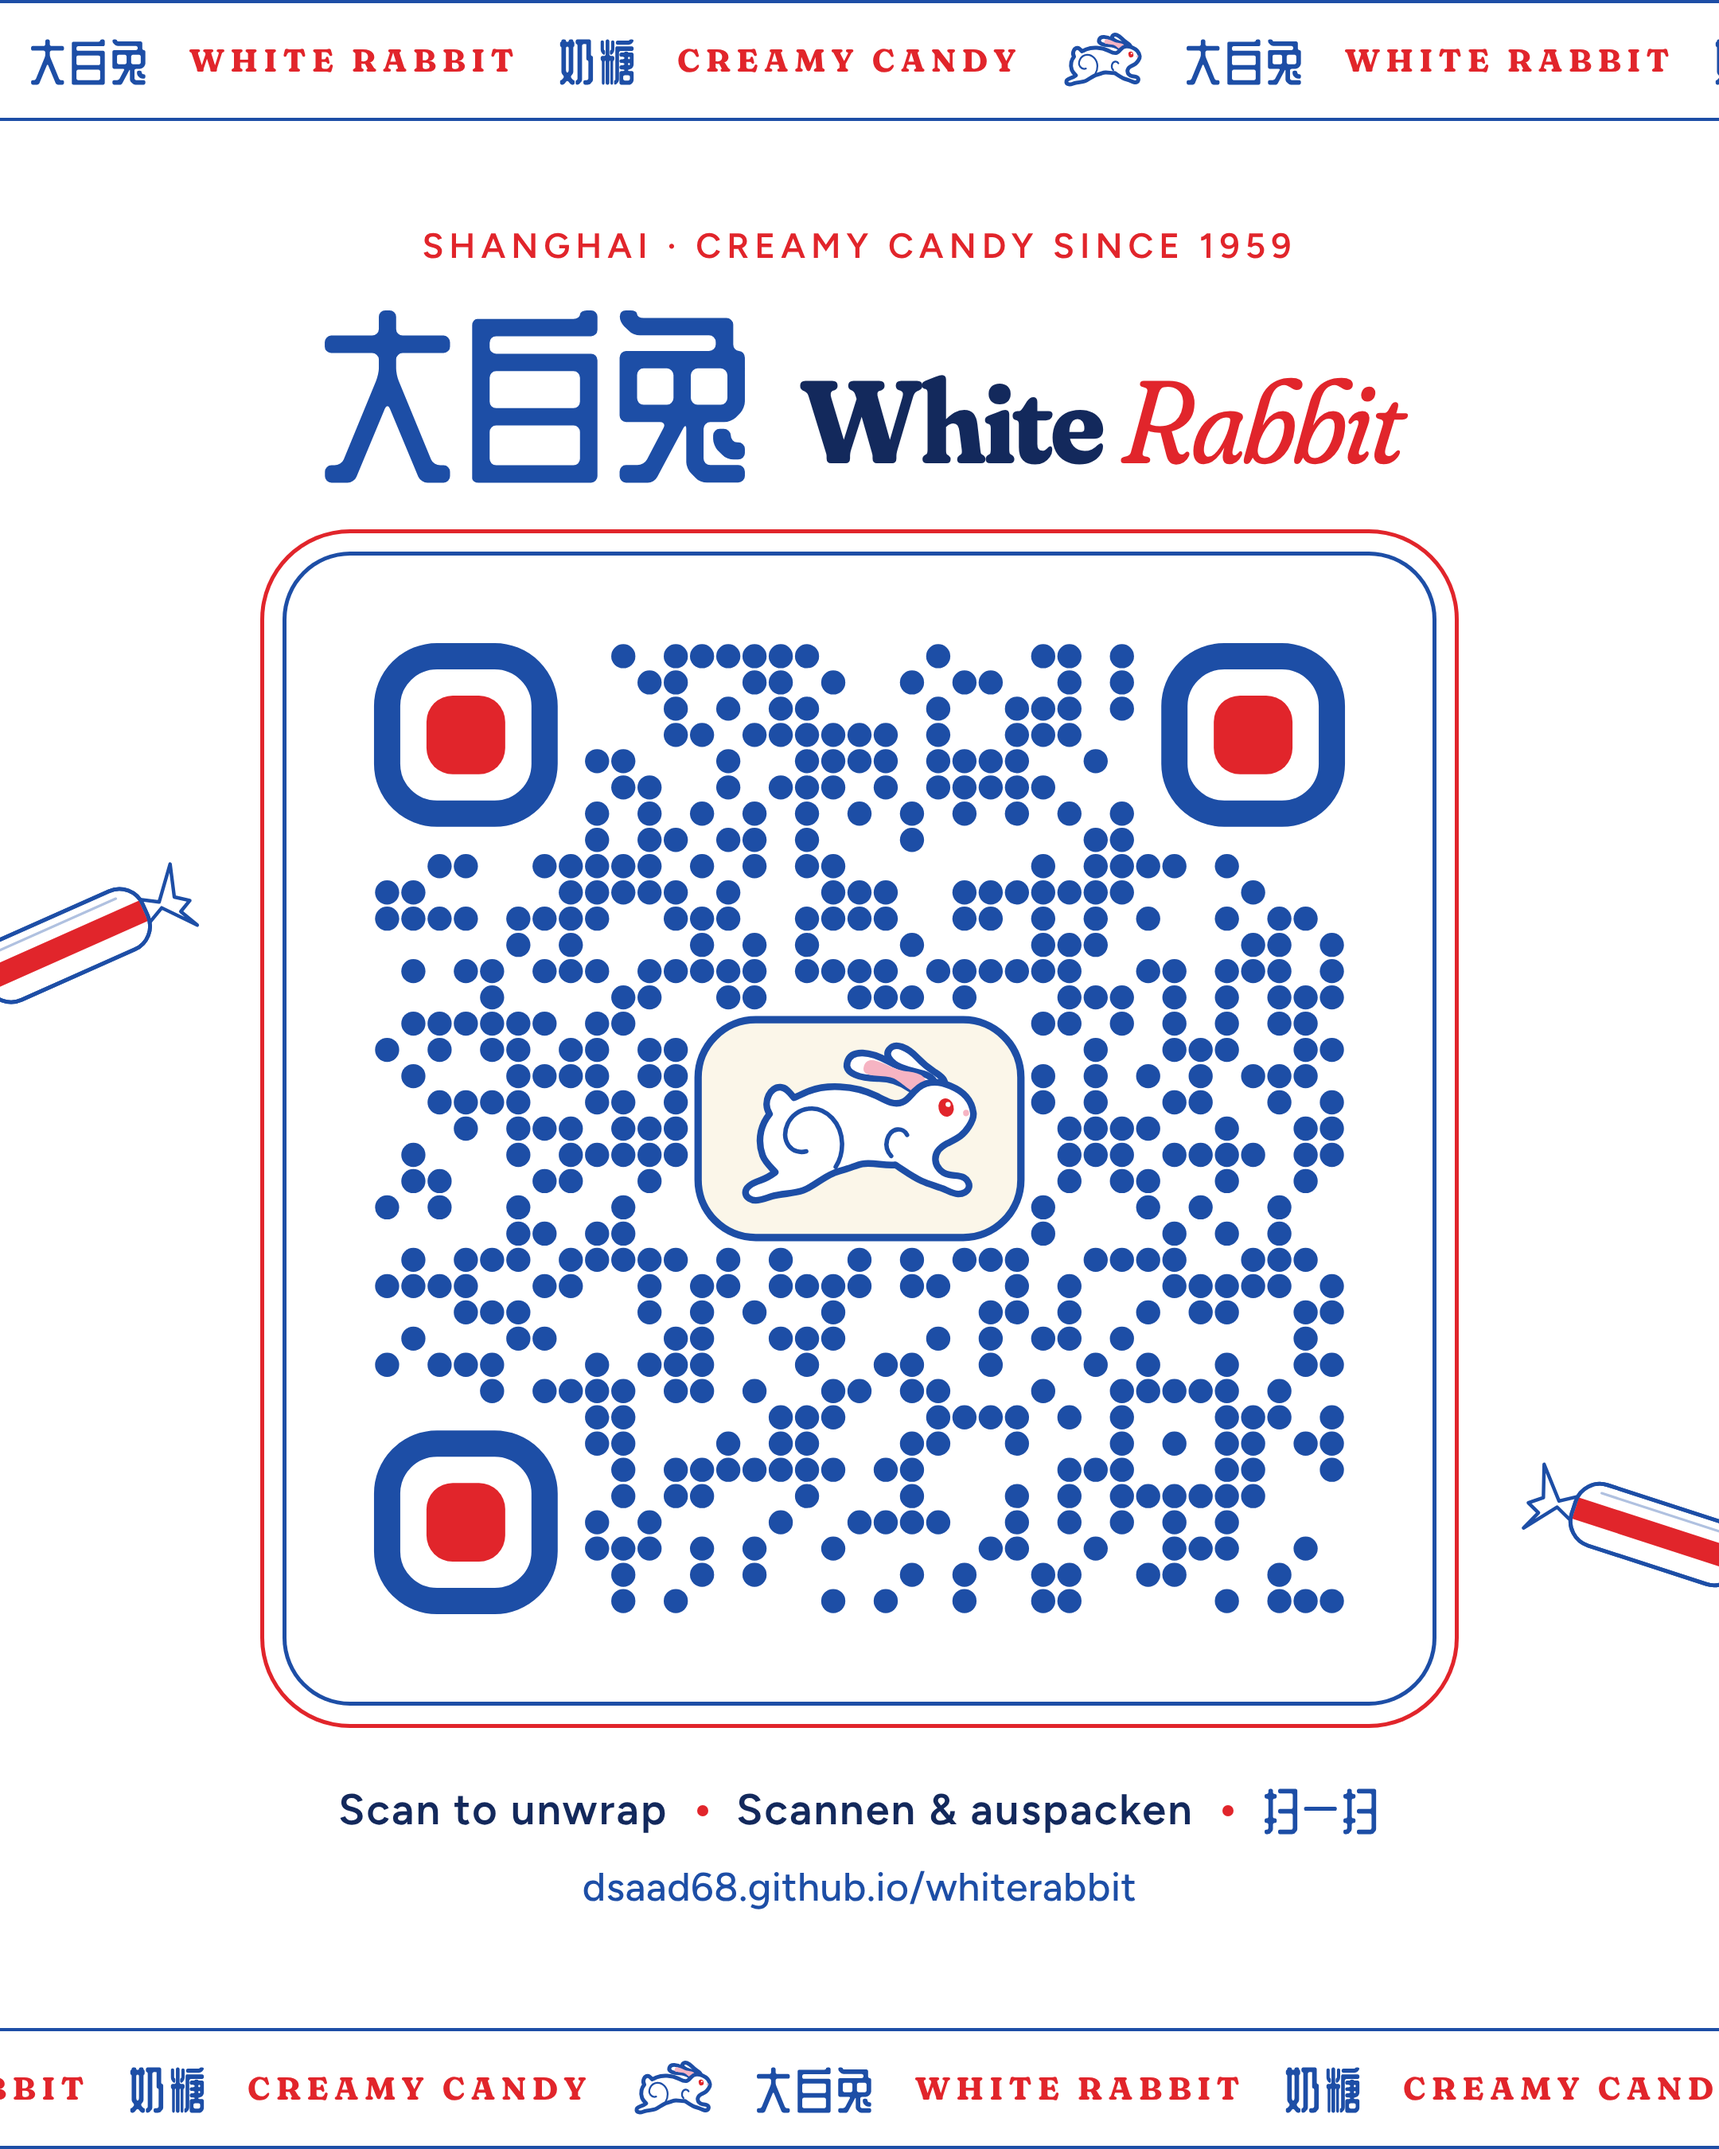
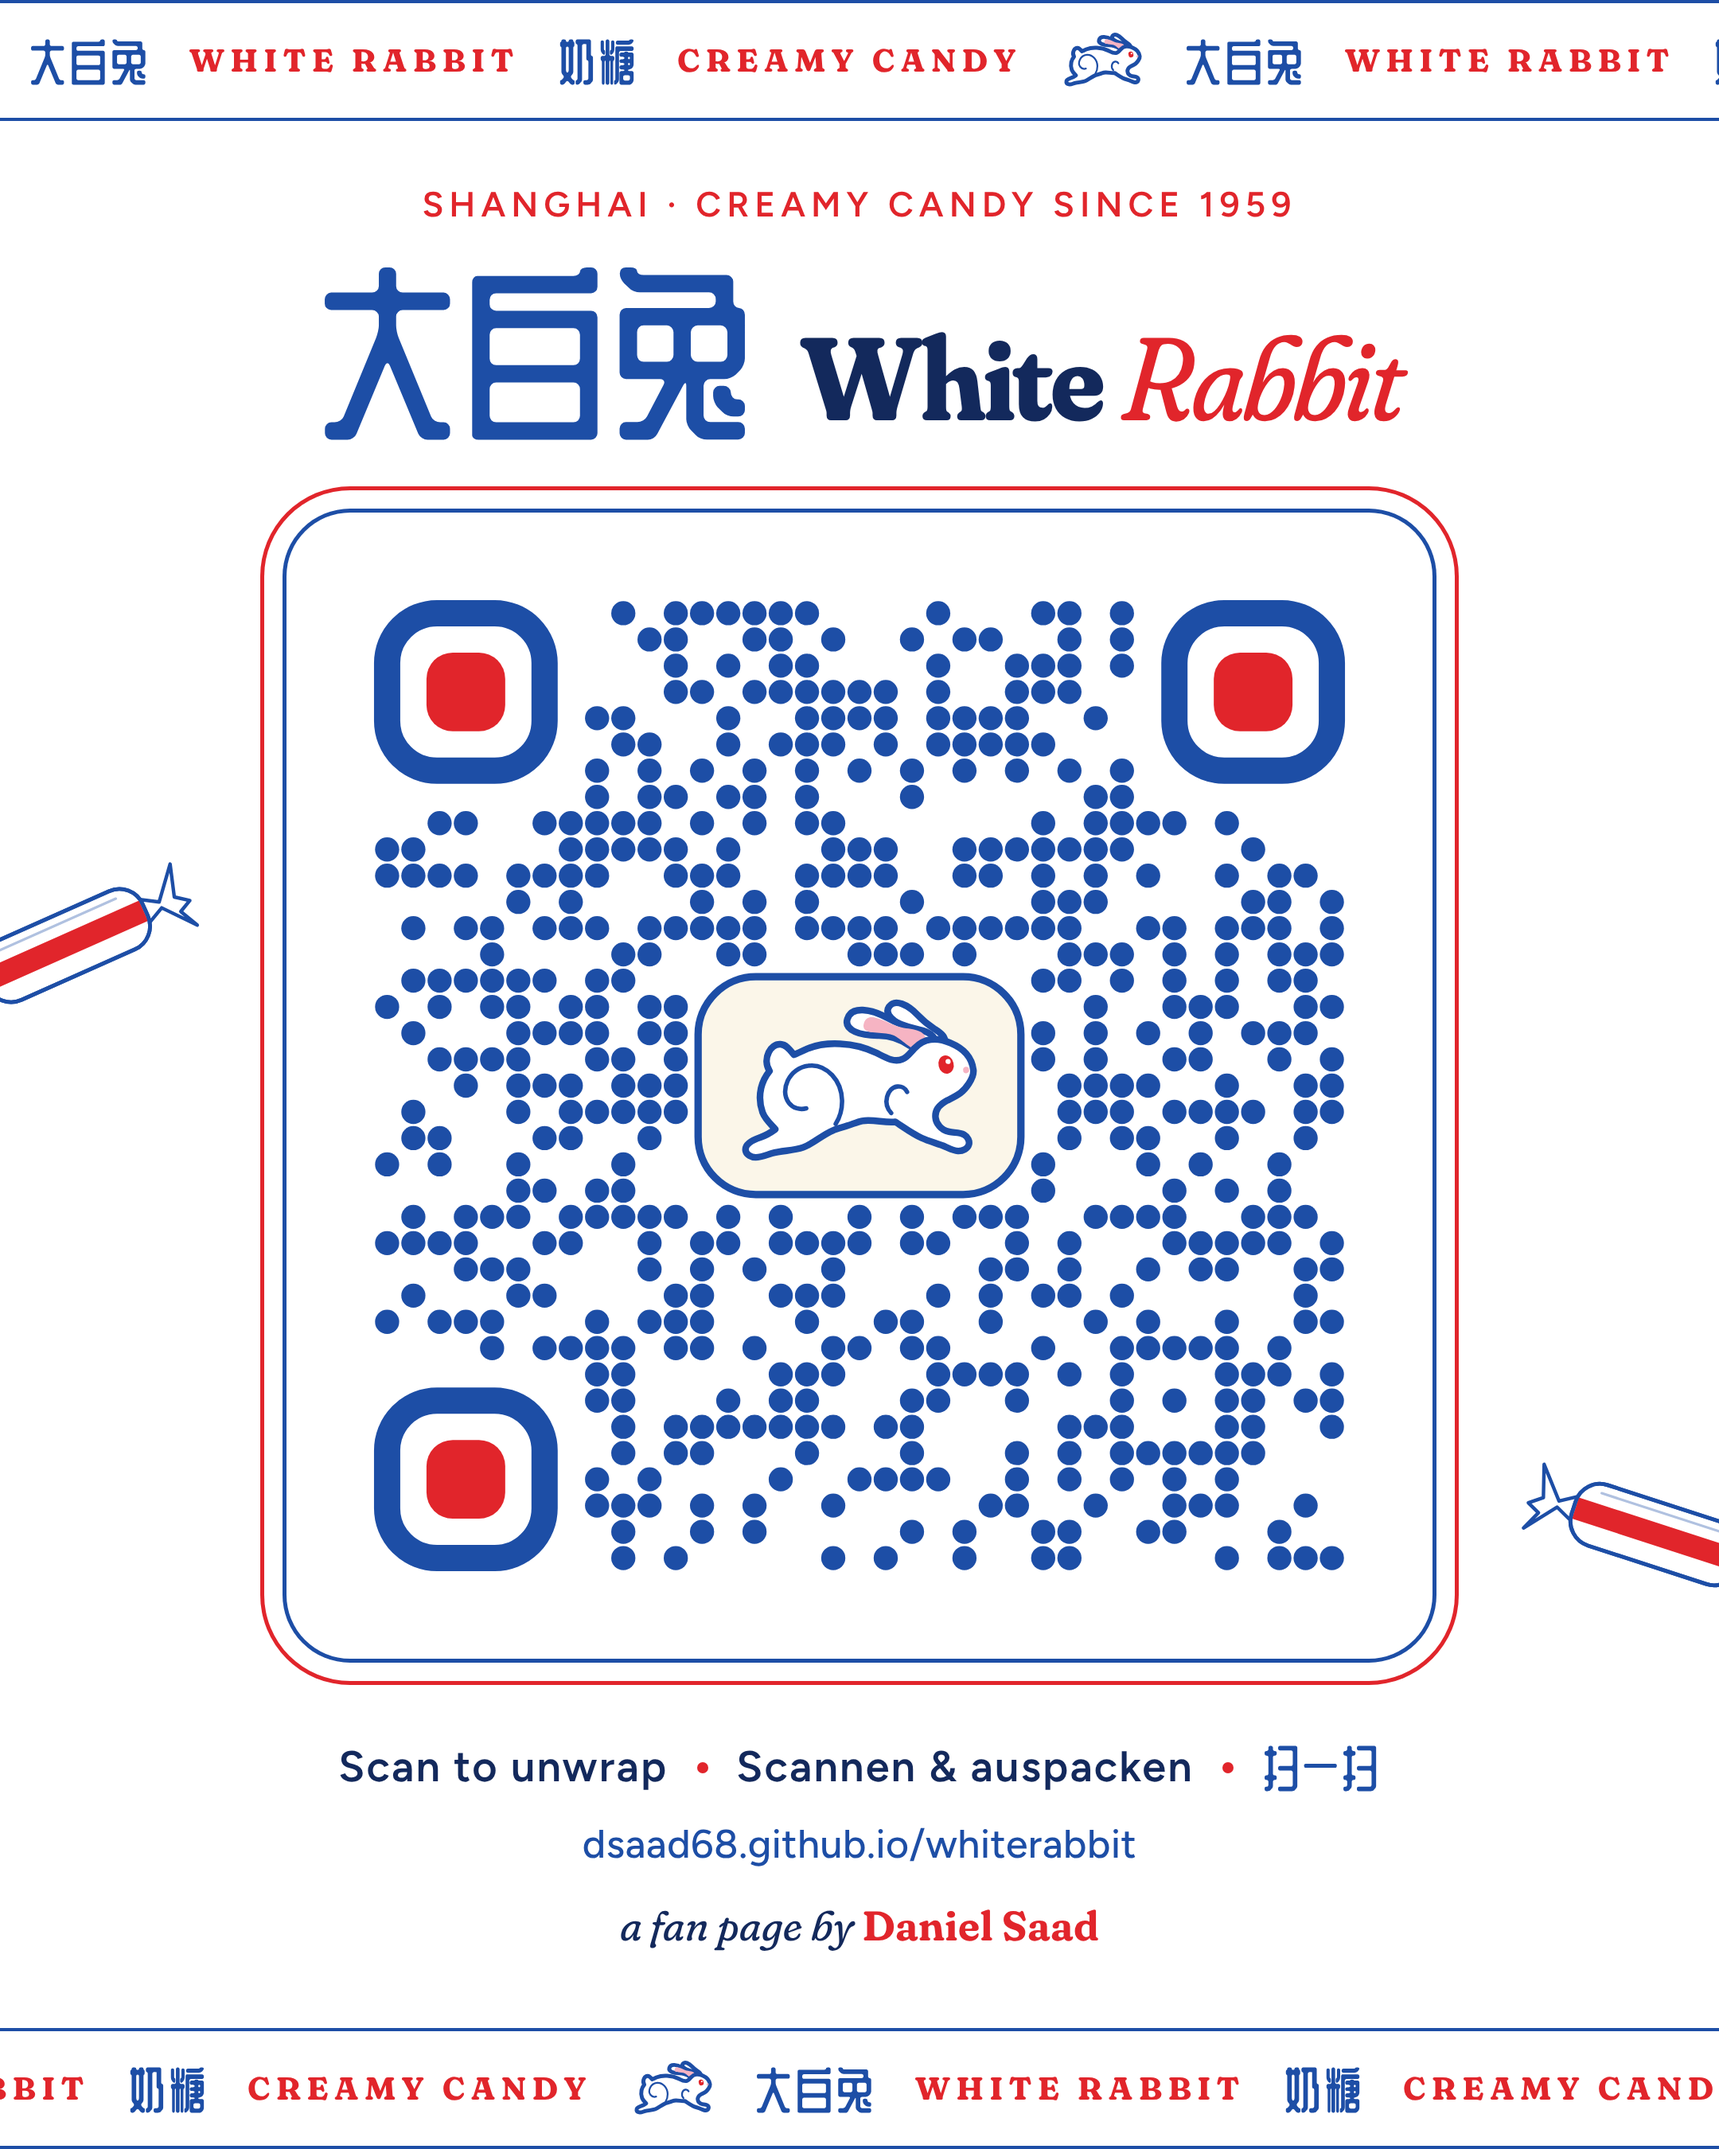
Credit Daniel Saad on the page, the QR card and the README
- Footer: "A fan page by Daniel Saad" above the disclaimer, in English,
  German and Chinese (new foot.by key in content.py, rebuilt), plus an
  author meta tag. The name is kept on one line in English and German.
- QR card: "a fan page by Daniel Saad" under the URL; the code is
  unchanged and still decodes.
- README: the QR card, linking to the site, and the credit.

Claude-Session: https://claude.ai/code/session_013e8VkvksgkxvuvSrSHRWGQ

Changed region(s): [[0.1551, 0.28, 0.8685, 0.9022], [0.1551, 0.0933, 0.8685, 0.28]]

diff --git a/index.html b/index.html
@@ -5,6 +5,7 @@
 <meta name="viewport" content="width=device-width, initial-scale=1, viewport-fit=cover">
 <title>White Rabbit Candy</title>
 <meta name="claude:viewport-fit-sides" content="cover">
+<meta name="author" content="Daniel Saad">
 <meta name="description" content="大白兔奶糖, the White Rabbit creamy candy from Shanghai: what it is, its history since 1943, the 1972 diplomatic gift, its kinds and its place in pop culture, in English, German and Chinese.">
 <link rel="preconnect" href="https://fonts.googleapis.com">
 <link rel="preconnect" href="https://fonts.gstatic.com" crossorigin>
@@ -243,7 +244,8 @@ html:lang(zh-Hans) .foot h2 { font: 400 var(--step-2)/1.1 var(--f-zh-display); }
 .src h3 { margin: 0 0 8px; font: 700 12px/1.2 var(--f-body); letter-spacing: .14em; text-transform: uppercase; opacity: .75; }
 .src ul { margin: 0; padding: 0; list-style: none; display: grid; gap: 6px; }
 .src li { overflow-wrap: anywhere; line-height: 1.4; }
-.disc { margin-top: 36px; padding-top: 22px; border-top: 1px solid rgba(255, 255, 255, .25); font-size: var(--step--1); opacity: .85; max-width: 80ch; }
+.by { margin: 36px 0 0; padding-top: 22px; border-top: 1px solid rgba(255, 255, 255, .25); font: 600 var(--step-0)/1.4 var(--f-body); letter-spacing: .02em; }
+.disc { margin-top: 10px; font-size: var(--step--1); opacity: .85; max-width: 80ch; }
 
 /* Chinese words inside English or German text, and numbers kept with their units */
 :is(.prose, .card, .pop, .fact, .caveat, .note, .disc, .kilo, #factList, .ch-head p, .lede, .facts3, .stats, .src) span[lang="zh-Hans"] { font-family: var(--f-zh); }
@@ -487,6 +489,7 @@ html:lang(zh-Hans) .kilo b { letter-spacing: 0; }
   <div class="wrap">
     <h2 data-i18n="foot.sources"></h2>
     <div class="src" id="sources"></div>
+    <p class="by" data-i18n="foot.by"></p>
     <p class="disc" data-i18n="foot.disc"></p>
   </div>
 </footer>
@@ -559,6 +562,7 @@ const CONTENT_UI = {
   "kinds.sub": "For decades there was one flavour: milk. New ones arrived from the early 2000s, and by 2023 the brand counted 16 of them. Drag the ring, or use the arrows.",
   "pop.sub": "A childhood candy that became lip balm, perfume, milk tea, fashion, art and toys.",
   "foot.disc": "A fan page made for fun. Not affiliated with Shanghai Guan Sheng Yuan Food Co., which owns the <span lang=\"zh-Hans\">大白兔</span> / White Rabbit trademarks. The rabbit and the candies are drawn for this page. Figures are the latest published ones we could find; where sources disagree, the page says so.",
+  "foot.by": "A fan page by Daniel\u00a0Saad",
   "a11y.top": "White Rabbit, back to the top",
   "a11y.fps": "Measured frame rate",
   "a11y.candy": "A White Rabbit candy that untwists and unwraps as you scroll",
@@ -584,6 +588,7 @@ const CONTENT_UI = {
   "kinds.sub": "Jahrzehntelang gab es nur eine Sorte: Milch. Ab Anfang der 2000er kamen neue dazu, bis 2023 ganze 16. Dreh am Ring oder tipp auf die Pfeile.",
   "pop.sub": "Ein Kindheitsbonbon, aus dem Lippenbalsam, Parfüm, Milchtee, Mode, Kunst und Spielzeug wurden.",
   "foot.disc": "Eine Fanseite, aus Spaß gemacht. Keine Verbindung zu Shanghai Guan Sheng Yuan Food Co., der die Marken <span lang=\"zh-Hans\">大白兔</span> / White Rabbit gehören. Hase und Bonbons wurden eigens für diese Seite gezeichnet. Die Zahlen sind die neuesten veröffentlichten, die wir finden konnten; wo Quellen sich widersprechen, steht das dabei.",
+  "foot.by": "Eine Fanseite von Daniel\u00a0Saad",
   "a11y.top": "White Rabbit, zurück nach oben",
   "a11y.fps": "Gemessene Bildrate",
   "a11y.candy": "Ein White-Rabbit-Bonbon, das sich beim Scrollen aufdreht und auspackt",
@@ -609,6 +614,7 @@ const CONTENT_UI = {
   "kinds.sub": "很长一段时间里，大白兔只有一种口味：奶味。进入<span class=\"nw\">21世纪</span>后才陆续推出新口味，到<span class=\"nw\">2023年</span>已有<span class=\"nw\">16种</span>新口味。拖动转盘，或点箭头挨个看看。",
   "pop.sub": "一颗童年的糖，变成了润唇膏、香水、奶茶、时装、艺术品和潮玩。",
   "foot.disc": "本页是爱好者出于兴趣制作的非官方页面，与“大白兔”商标所有者上海冠生园食品有限公司没有任何关联。页面中的兔子和奶糖均为自行绘制。数据均取自我们能找到的最新公开资料；各方说法不一之处，文中都已注明。",
+  "foot.by": "本页由 Daniel Saad 制作",
   "a11y.top": "大白兔，回到顶部",
   "a11y.fps": "实测帧率",
   "a11y.candy": "一颗大白兔奶糖，随着页面滚动拧开、剥开糖纸",

diff --git a/qr/card.html b/qr/card.html
@@ -25,6 +25,8 @@ h1 .lat em { font-style: italic; font-weight: 400; color: #E1252B; }
 .scan i { width: 7px; height: 7px; border-radius: 50%; background: #E1252B; }
 .scan .zhs { font-family: "ZCOOL QingKe HuangYou"; font-weight: 400; font-size: 31px; color: #1D4EA6; }
 .url { margin-top: 14px; font: 500 25px/1.2 Figtree; color: #1D4EA6; letter-spacing: .01em; }
+.by { margin-top: 22px; font: 400 italic 26px/1.2 Fraunces; font-variation-settings: "SOFT" 100, "opsz" 36; color: #13295C; }
+.by b { font-style: normal; font-weight: 650; color: #E1252B; }
 .candy { position: absolute; width: 170px; height: 68px; }
 </style></head><body>
 <div class="card">
@@ -100,6 +102,7 @@ h1 .lat em { font-style: italic; font-weight: 400; color: #E1252B; }
     </g></svg></svg></div>
     <p class="scan">Scan to unwrap <i></i> Scannen &amp; auspacken <i></i> <span class="zhs">扫一扫</span></p>
     <p class="url">dsaad68.github.io/whiterabbit</p>
+    <p class="by">a fan page by <b>Daniel Saad</b></p>
   </div>
   <svg class="candy" style="left:-44px; top:560px; transform: rotate(-24deg)" viewBox="0 0 170 68">
       <path d="M38 22 L20 33 L4 14 L10 34 L2 40 L10 44 L4 56 L20 37 L38 46 Z" fill="#fff" stroke="#1D4EA6" stroke-width="2.2" stroke-linejoin="round"/>

diff --git a/content.py b/content.py
@@ -15,6 +15,7 @@ UI = {
   "kinds.sub": "For decades there was one flavour: milk. New ones arrived from the early 2000s, and by 2023 the brand counted 16 of them. Drag the ring, or use the arrows.",
   "pop.sub": "A childhood candy that became lip balm, perfume, milk tea, fashion, art and toys.",
   "foot.disc": "A fan page made for fun. Not affiliated with Shanghai Guan Sheng Yuan Food Co., which owns the 大白兔 / White Rabbit trademarks. The rabbit and the candies are drawn for this page. Figures are the latest published ones we could find; where sources disagree, the page says so.",
+  "foot.by": "A fan page by Daniel Saad",
   "a11y.top": "White Rabbit, back to the top",
   "a11y.fps": "Measured frame rate",
   "a11y.candy": "A White Rabbit candy that untwists and unwraps as you scroll",
@@ -39,6 +40,7 @@ UI = {
   "kinds.sub": "Jahrzehntelang gab es nur eine Sorte: Milch. Ab Anfang der 2000er kamen neue dazu, bis 2023 ganze 16. Dreh am Ring oder tipp auf die Pfeile.",
   "pop.sub": "Ein Kindheitsbonbon, aus dem Lippenbalsam, Parfüm, Milchtee, Mode, Kunst und Spielzeug wurden.",
   "foot.disc": "Eine Fanseite, aus Spaß gemacht. Keine Verbindung zu Shanghai Guan Sheng Yuan Food Co., der die Marken 大白兔 / White Rabbit gehören. Hase und Bonbons wurden eigens für diese Seite gezeichnet. Die Zahlen sind die neuesten veröffentlichten, die wir finden konnten; wo Quellen sich widersprechen, steht das dabei.",
+  "foot.by": "Eine Fanseite von Daniel Saad",
   "a11y.top": "White Rabbit, zurück nach oben",
   "a11y.fps": "Gemessene Bildrate",
   "a11y.candy": "Ein White-Rabbit-Bonbon, das sich beim Scrollen aufdreht und auspackt",
@@ -63,6 +65,7 @@ UI = {
   "kinds.sub": "很长一段时间里，大白兔只有一种口味：奶味。进入21世纪后才陆续推出新口味，到2023年已有16种新口味。拖动转盘，或点箭头挨个看看。",
   "pop.sub": "一颗童年的糖，变成了润唇膏、香水、奶茶、时装、艺术品和潮玩。",
   "foot.disc": "本页是爱好者出于兴趣制作的非官方页面，与“大白兔”商标所有者上海冠生园食品有限公司没有任何关联。页面中的兔子和奶糖均为自行绘制。数据均取自我们能找到的最新公开资料；各方说法不一之处，文中都已注明。",
+  "foot.by": "本页由 Daniel Saad 制作",
   "a11y.top": "大白兔，回到顶部",
   "a11y.fps": "实测帧率",
   "a11y.candy": "一颗大白兔奶糖，随着页面滚动拧开、剥开糖纸",

diff --git a/qr/make_qr.py b/qr/make_qr.py
@@ -92,6 +92,8 @@ h1 .lat em {{ font-style: italic; font-weight: 400; color: {RED}; }}
 .scan i {{ width: 7px; height: 7px; border-radius: 50%; background: {RED}; }}
 .scan .zhs {{ font-family: "ZCOOL QingKe HuangYou"; font-weight: 400; font-size: 31px; color: {BLUE}; }}
 .url {{ margin-top: 14px; font: 500 25px/1.2 Figtree; color: {BLUE}; letter-spacing: .01em; }}
+.by {{ margin-top: 22px; font: 400 italic 26px/1.2 Fraunces; font-variation-settings: "SOFT" 100, "opsz" 36; color: {INK}; }}
+.by b {{ font-style: normal; font-weight: 650; color: {RED}; }}
 .candy {{ position: absolute; width: 170px; height: 68px; }}
 </style></head><body>
 <div class="card">
@@ -102,6 +104,7 @@ h1 .lat em {{ font-style: italic; font-weight: 400; color: {RED}; }}
     <div class="qr">{svg}</div>
     <p class="scan">Scan to unwrap <i></i> Scannen &amp; auspacken <i></i> <span class="zhs">扫一扫</span></p>
     <p class="url">dsaad68.github.io/whiterabbit</p>
+    <p class="by">a fan page by <b>Daniel Saad</b></p>
   </div>
   <svg class="candy" style="left:-44px; top:560px; transform: rotate(-24deg)" viewBox="0 0 170 68">{candy}</svg>
   <svg class="candy" style="right:-46px; top:930px; transform: rotate(18deg)" viewBox="0 0 170 68">{candy}</svg>

diff --git a/build_content.py b/build_content.py
@@ -30,7 +30,7 @@ EN_DE_NB = [
     re.compile(r"(?<=US\$) (?=\d)"),
     re.compile(r"(?:(?<=\bmillion)|(?<=\bbillion)|(?<=\bMillionen)|(?<=\bMilliarden)) (?=(?:yuan|Yuan|kilos|Kilo|tonnes|Tonnen|dollars|US-Dollar)\b)"),
 ]
-NAMES = ("Lu Xiuqin", "Zhou Enlai", "Feng Boyong", "Liu Yiqing")
+NAMES = ("Lu Xiuqin", "Zhou Enlai", "Feng Boyong", "Liu Yiqing", "Daniel Saad")
 HAN = r"㐀-䶿一-鿿豈-﫿"
 CJK_RUN = re.compile("[" + HAN + "]+(?:[　-〿＀-￯·]+[" + HAN + "]+)*")
 DE_TITLE = re.compile(r"Chinesischer Hasenzucker")

diff --git a/README.md b/README.md
@@ -4,6 +4,14 @@ A fan page about White Rabbit candy (大白兔奶糖) in English, German and Chi
 
 Live at **https://dsaad68.github.io/whiterabbit/**
 
+By **Daniel Saad**.
+
+<p align="center">
+  <a href="https://dsaad68.github.io/whiterabbit/"><img src="qr/whiterabbit-qr-card.png" alt="QR code for dsaad68.github.io/whiterabbit, on a White Rabbit wrapper-style card" width="420"></a>
+</p>
+
+Scan it to open the page. The card and a plain version (`qr/whiterabbit-qr.png`, `qr/whiterabbit-qr.svg` for print) are made by `python3 qr/make_qr.py`, then rendered with `node qr/render.js`.
+
 The page is a single self-contained `index.html` (fonts come from Google Fonts). GitHub Pages serves it straight from the root of `main`; `.nojekyll` turns off Jekyll processing.
 
 ## Editing
